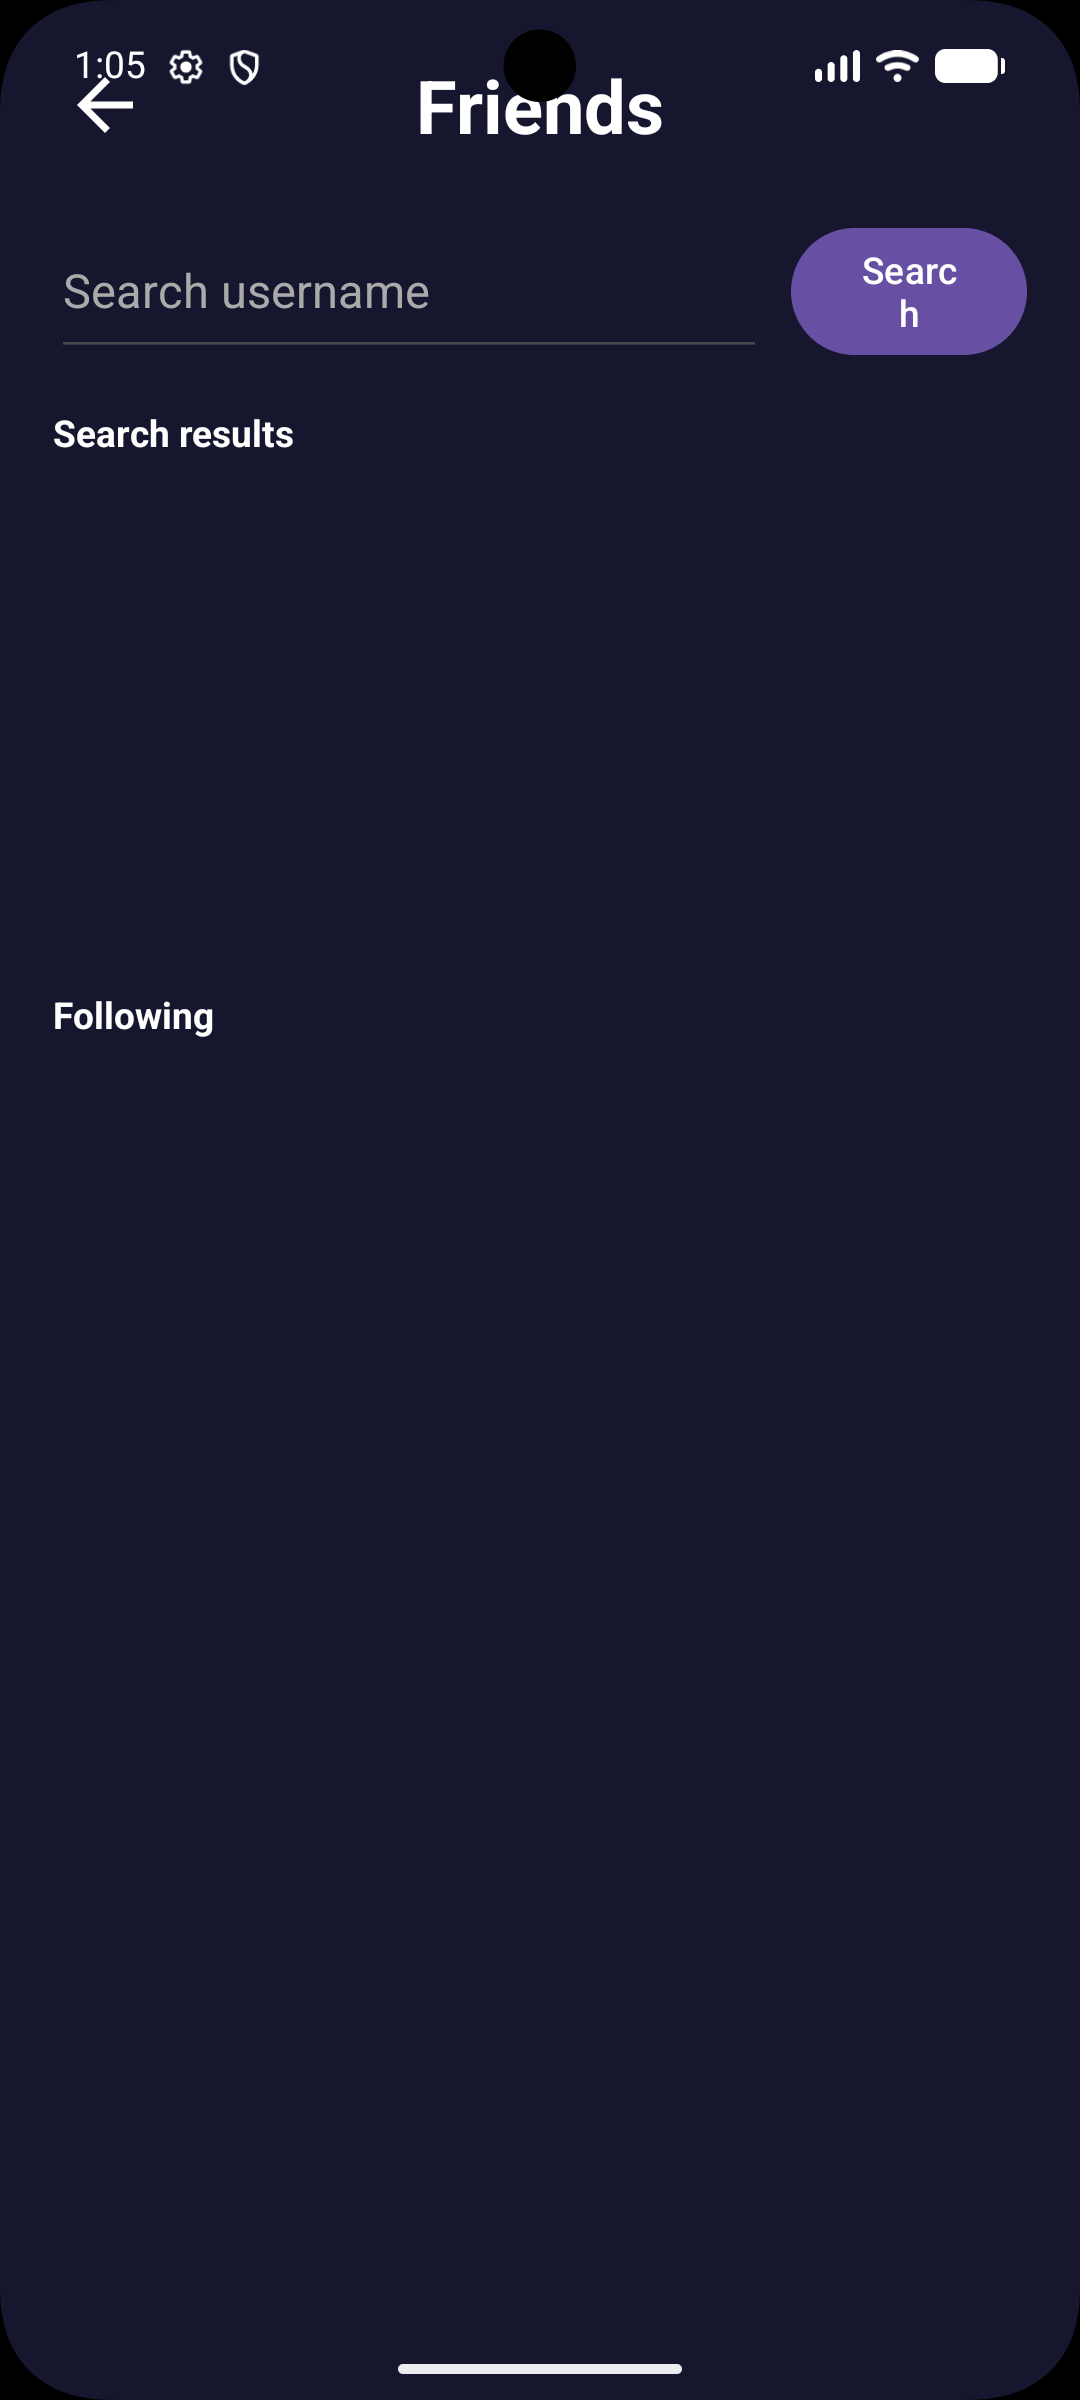
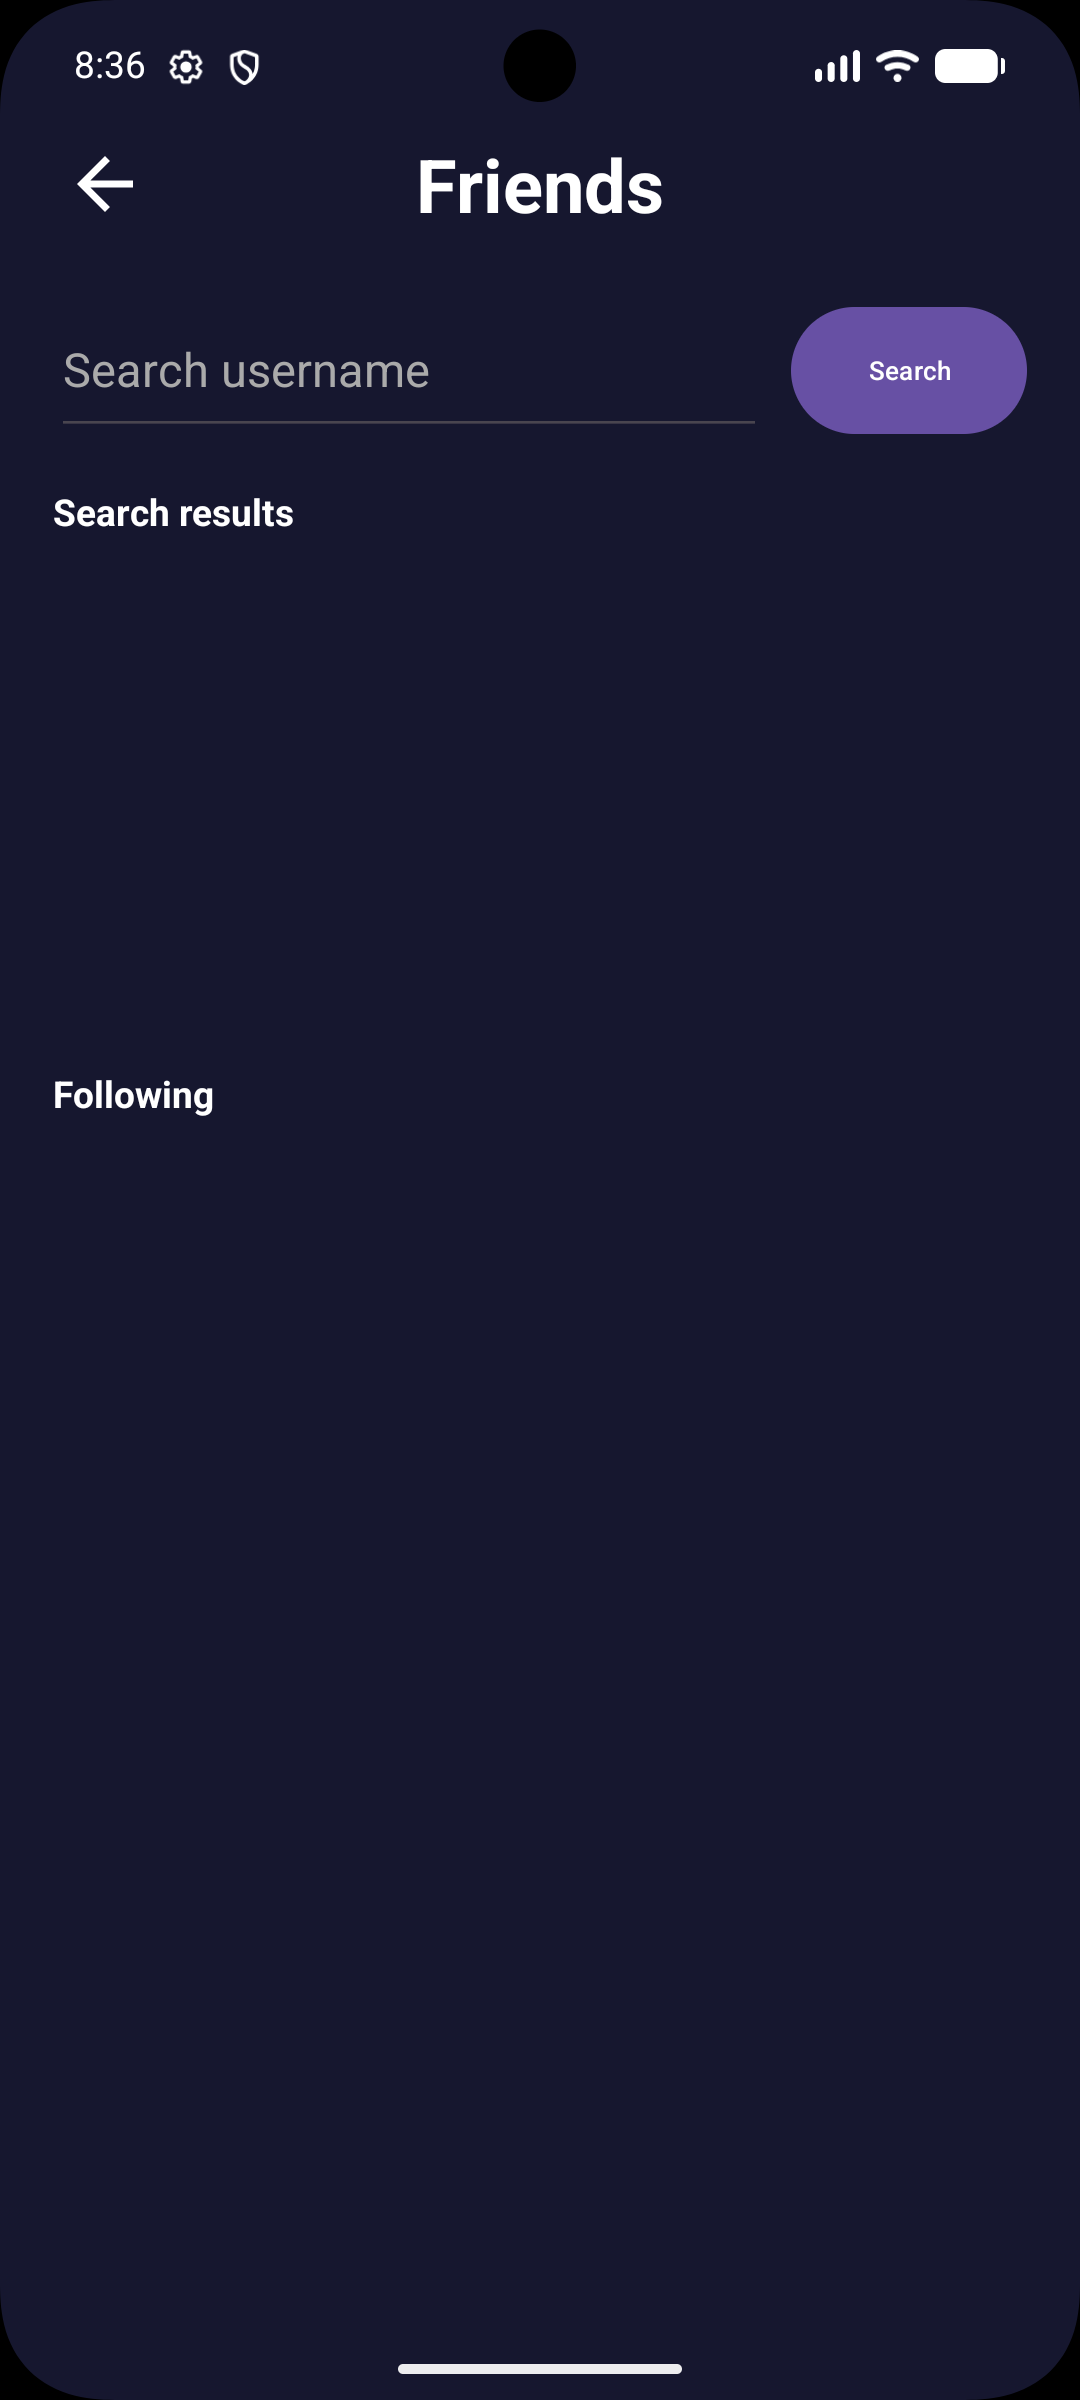
Added more demo photos

Changed region(s): [[0.0611, 0.0, 0.6111, 0.2188], [0.7333, 0.0938, 0.9472, 0.1875], [0.0611, 0.4062, 0.2139, 0.4688]]

diff --git a/index.html b/index.html
@@ -286,34 +286,39 @@
                         >
                         <img
                             src="assets/project-images/phim/demo6.png"
-                            alt="Phim app Welcome"
+                            alt="Phim app profile"
                             class="carousel-slide"
                         >
                         <img
+                            src="assets/project-images/phim/demo8.png"
+                            alt="Phim app friends feed"
+                            class="carousel-slide active"
+                        >
+                        <img
                             src="assets/project-images/phim/demo3.png"
-                            alt="Phim app feed screen"
+                            alt="Phim app login"
                             class="carousel-slide"
                         >
                         <img
                             src="assets/project-images/phim/demo7.png"
-                            alt="Phim app home screen"
+                            alt="Phim app movie search"
                             class="carousel-slide active"
                         >
                         <img
                             src="assets/project-images/phim/demo1.png"
-                            alt="Phim app home screen"
+                            alt="Phim app ranking"
                             class="carousel-slide active"
                         >
 
                         <img
                             src="assets/project-images/phim/demo2.png"
-                            alt="Phim app movie screen"
+                            alt="Phim app ranking 2"
                             class="carousel-slide"
                         >
 
                         <img
                             src="assets/project-images/phim/demo5.png"
-                            alt="Phim app Welcome"
+                            alt="Phim app friend search"
                             class="carousel-slide"
                         >
 
